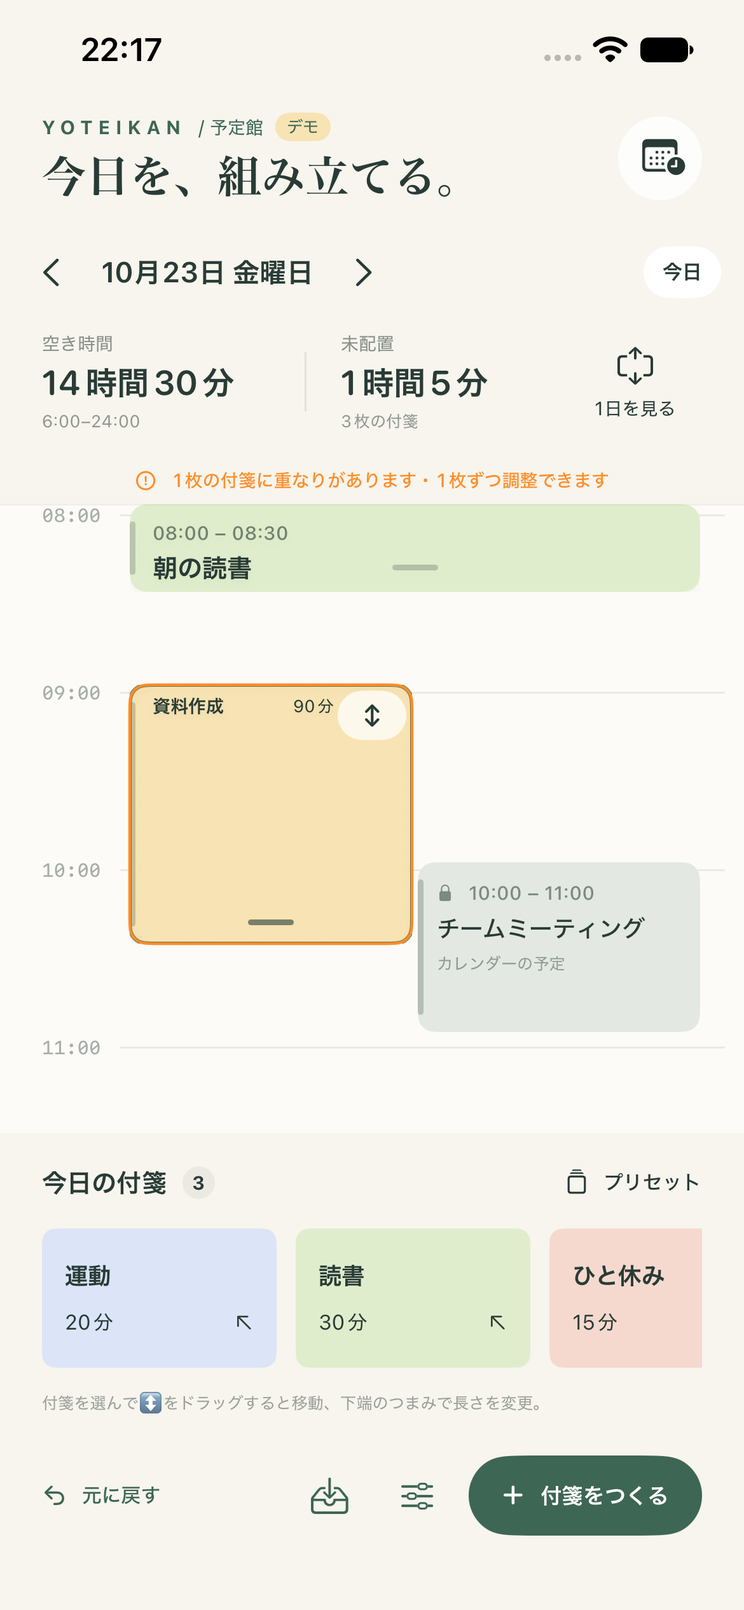
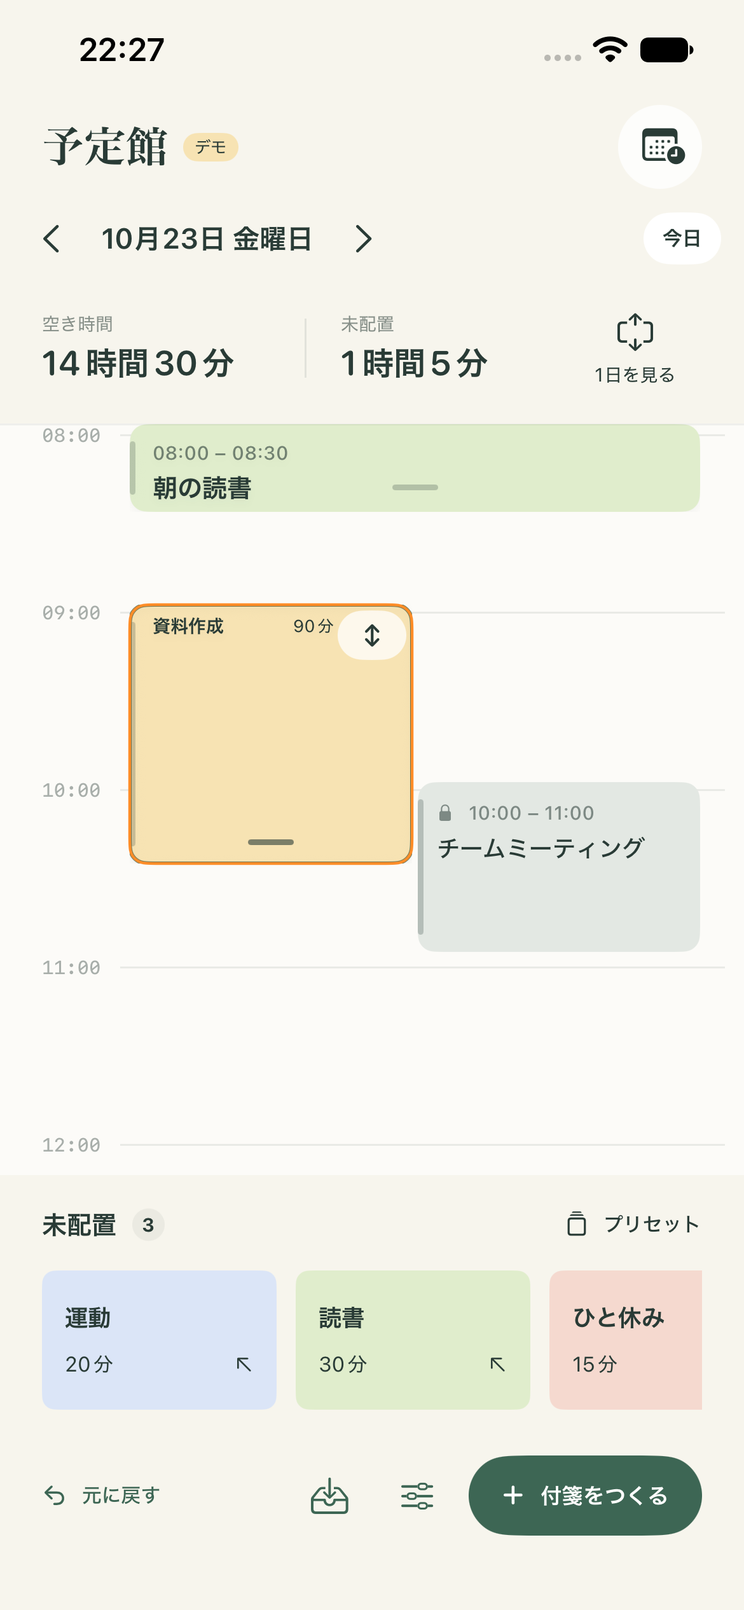
Simplify planner UI and remove redundant explanations (#2)

diff --git a/ios/Yoteikan/PlannerView.swift b/ios/Yoteikan/PlannerView.swift
@@ -16,7 +16,6 @@ struct PlannerView: View {
     @State private var shift: CGFloat = 0
     @State private var stretching: UUID?
     @State private var stretch: CGFloat = 0
-    @State private var toast: String?
     @State private var viewportHeight: CGFloat = 350
     @State private var touchStart = CGPoint.zero
     @State private var touchTask: UUID?
@@ -35,7 +34,6 @@ struct PlannerView: View {
     private var slots: [String: TimelineSlot] {
         PlannerMath.layout(placed.map { TimelineItem(id: $0.id.uuidString, start: $0.start!, end: $0.start! + $0.minutes) } + fixed.filter { !$0.allDay }.map { TimelineItem(id: "fixed-" + $0.id, start: $0.start, end: $0.end) })
     }
-    private var overlapCount: Int { placed.filter { conflicts($0) }.count }
     var body: some View {
         VStack(spacing: 0) {
             header
@@ -43,11 +41,8 @@ struct PlannerView: View {
             stats
             if !calendar.connected && !plans.demo {
                 Button { showCalendar = true } label: {
-                    HStack(spacing: 8) { Image(systemName: "calendar.badge.plus"); Text("カレンダーをつないで、空き時間を見つける").font(.system(size: 11, weight: .medium)); Spacer(); Image(systemName: "chevron.right") }.padding(.horizontal, 20).padding(.vertical, 10).foregroundStyle(accent)
+                    HStack(spacing: 8) { Image(systemName: "calendar.badge.plus"); Text("カレンダーを接続").font(.system(size: 12, weight: .medium)); Spacer(); Image(systemName: "chevron.right") }.padding(.horizontal, 20).padding(.vertical, 10).foregroundStyle(accent)
                 }.accessibilityIdentifier("calendarConnectBanner")
-            }
-            if overlapCount > 0 {
-                Label("\(overlapCount)枚の付箋に重なりがあります・1枚ずつ調整できます", systemImage: "exclamationmark.circle").font(.system(size: 10, weight: .medium)).foregroundStyle(.orange).padding(.vertical, 6).accessibilityIdentifier("overlapWarning")
             }
             if !fixed.filter(\.allDay).isEmpty {
                 ScrollView(.horizontal, showsIndicators: false) { HStack { ForEach(fixed.filter(\.allDay)) { event in Label(event.title, systemImage: "sun.max").font(.caption2).padding(7).background(.white.opacity(0.6), in: Capsule()) } }.padding(.horizontal, 20) }
@@ -57,9 +52,6 @@ struct PlannerView: View {
         }
         .background(paper).foregroundStyle(ink)
         .safeAreaInset(edge: .bottom, spacing: 0) { bottomBar }
-        .overlay(alignment: .bottom) {
-            if let toast { Text(toast).font(.caption).padding(12).background(ink, in: Capsule()).foregroundStyle(.white).padding(.bottom, 180).allowsHitTesting(false) }
-        }
         .sheet(isPresented: $showPresets) { PresetsView() }
         .sheet(isPresented: $showCalendar) { CalendarSettingsView() }
         .sheet(isPresented: $showNew) { StickyEditor(task: Sticky(title: "", minutes: 30, day: dayKey(plans.date)), isNew: true) }
@@ -68,14 +60,18 @@ struct PlannerView: View {
         .onChange(of: phase) { _, value in if value == .active { calendar.refresh(date: plans.date) } }
     }
     private var header: some View {
-        HStack(alignment: .center) {
-            VStack(alignment: .leading, spacing: 5) {
-                HStack(spacing: 6) { Text("YOTEIKAN").tracking(2.8).font(.system(size: 10, weight: .bold)); Text("/ 予定館").font(.system(size: 10)); if plans.demo { Text("デモ").font(.system(size: 9)).padding(.horizontal, 6).padding(.vertical, 2).background(tones[1], in: Capsule()) } }.foregroundStyle(accent)
-                Text("今日を、組み立てる。").font(.system(size: 23, weight: .semibold, design: .serif))
+        HStack {
+            Text("予定館").font(.system(size: 22, weight: .semibold, design: .serif))
+            if plans.demo {
+                Text("デモ").font(.system(size: 9)).padding(.horizontal, 6).padding(.vertical, 2)
+                    .background(tones[1], in: Capsule())
             }
             Spacer()
-            Button { showCalendar = true } label: { Image(systemName: "calendar.badge.clock").font(.system(size: 19)).frame(width: 44, height: 44).background(.white.opacity(0.8), in: Circle()) }.accessibilityLabel("カレンダー設定").accessibilityIdentifier("calendarSettings")
-        }.padding(.horizontal, 22).padding(.top, 12).padding(.bottom, 18)
+            Button { showCalendar = true } label: {
+                Image(systemName: "calendar.badge.clock").font(.system(size: 19))
+                    .frame(width: 44, height: 44).background(.white.opacity(0.8), in: Circle())
+            }.accessibilityLabel("カレンダー設定").accessibilityIdentifier("calendarSettings")
+        }.padding(.horizontal, 22).padding(.top, 8).padding(.bottom, 8)
     }
     private var dateBar: some View {
         HStack(spacing: 9) {
@@ -88,15 +84,15 @@ struct PlannerView: View {
     }
     private var stats: some View {
         HStack(spacing: 0) {
-            stat("空き時間", durationText(1080 - occupied), "6:00–24:00")
+            stat("空き時間", durationText(1080 - occupied))
             Rectangle().fill(ink.opacity(0.10)).frame(width: 1, height: 31)
-            stat("未配置", durationText(inbox.reduce(0) { $0 + $1.minutes }), "\(inbox.count)枚の付箋")
+            stat("未配置", durationText(inbox.reduce(0) { $0 + $1.minutes }))
             Spacer(minLength: 0)
             Button { overview.toggle() } label: { VStack(spacing: 5) { Image(systemName: overview ? "plus.magnifyingglass" : "rectangle.expand.vertical").font(.system(size: 17)); Text(overview ? "拡大する" : "1日を見る").font(.system(size: 10)) }.frame(width: 70, height: 55) }.accessibilityIdentifier("zoomToggle")
         }.padding(.horizontal, 22).padding(.vertical, 12)
     }
-    private func stat(_ title: String, _ value: String, _ caption: String) -> some View {
-        VStack(alignment: .leading, spacing: 4) { Text(title).font(.system(size: 10)).foregroundStyle(ink.opacity(0.55)); Text(value).font(.system(size: 18, weight: .semibold, design: .rounded)); Text(caption).font(.system(size: 9)).foregroundStyle(ink.opacity(0.5)) }.frame(maxWidth: .infinity, alignment: .leading).padding(.leading, title == "未配置" ? 18 : 0)
+    private func stat(_ title: String, _ value: String) -> some View {
+        VStack(alignment: .leading, spacing: 4) { Text(title).font(.system(size: 10)).foregroundStyle(ink.opacity(0.55)); Text(value).font(.system(size: 18, weight: .semibold, design: .rounded)) }.frame(maxWidth: .infinity, alignment: .leading).padding(.leading, title == "未配置" ? 18 : 0)
     }
     private var timeline: some View {
         ScrollViewReader { reader in
@@ -145,6 +141,7 @@ struct PlannerView: View {
                                 .accessibilityElement(children: .contain)
                                 .accessibilityIdentifier("task-\(task.title)")
                                 .accessibilityValue("\(clockText(task.start!))|\(task.minutes)")
+                                .accessibilityHint(collision ? "ほかの予定と重なっています" : "")
                         }
                     }
                     .frame(maxWidth: .infinity, maxHeight: .infinity, alignment: .topLeading)
@@ -168,7 +165,7 @@ struct PlannerView: View {
         VStack(alignment: .leading, spacing: overview ? 0 : 5) {
             if overview { Text(event.title).font(.system(size: 7, weight: .medium)).lineLimit(1) }
             else { HStack { Image(systemName: "lock.fill").font(.system(size: 9)); Text("\(clockText(event.start)) – \(clockText(event.end))").font(.system(size: 10, weight: .medium)); Spacer(minLength: 0) }.foregroundStyle(ink.opacity(0.55))
-            if !overview { Text(event.title).font(.system(size: 13, weight: .medium)).lineLimit(2); Text("カレンダーの予定").font(.system(size: 9)).foregroundStyle(ink.opacity(0.45)) }
+            if !overview { Text(event.title).font(.system(size: 13, weight: .medium)).lineLimit(2) }
             Spacer(minLength: 0)
             }
         }.padding(overview ? 2 : 10).frame(maxWidth: .infinity, maxHeight: .infinity, alignment: .topLeading).background(Color(red: 0.89, green: 0.91, blue: 0.89), in: RoundedRectangle(cornerRadius: 9)).overlay(alignment: .leading) { RoundedRectangle(cornerRadius: 2).fill(ink.opacity(0.25)).frame(width: 3).padding(.vertical, 9) }.clipped().accessibilityElement(children: .ignore).accessibilityLabel("\(event.title)、\(clockText(event.start))から\(clockText(event.end))、カレンダーの固定予定").accessibilityIdentifier("fixed-\(event.title)")
@@ -182,7 +179,6 @@ struct PlannerView: View {
             } else {
             if !compact { Text("\(clockText(start)) – \(clockText(start + duration))").font(.system(size: 10, weight: .medium)).foregroundStyle(ink.opacity(0.6)) }
             HStack(spacing: 4) { Text(task.title).font(.system(size: compact ? 10 : 14, weight: .semibold)).lineLimit(1); Spacer(minLength: 0); if compact { Text("\(duration)分").font(.system(size: 9)) } }.padding(.trailing, selected == task.id ? 29 : 0)
-            if !compact && duration >= 40 { Text(durationText(duration)).font(.system(size: 10)).foregroundStyle(ink.opacity(0.6)) }
             Spacer(minLength: 0)
             }
         }.padding(.horizontal, overview ? 3 : 12).padding(.top, overview ? 1 : (compact ? 5 : 9)).frame(maxWidth: .infinity, maxHeight: .infinity, alignment: .topLeading)
@@ -253,9 +249,12 @@ struct PlannerView: View {
     }
     private var inboxView: some View {
         VStack(alignment: .leading, spacing: 11) {
-            HStack { Text("今日の付箋").font(.system(size: 14, weight: .semibold)); Text("\(inbox.count)").font(.system(size: 10, weight: .bold)).padding(5).background(ink.opacity(0.06), in: Circle()); Spacer(); Button { showPresets = true } label: { Label("プリセット", systemImage: "square.stack").font(.system(size: 11, weight: .medium)) }.accessibilityIdentifier("presetsButton") }
+            HStack { Text("未配置").font(.system(size: 14, weight: .semibold)); Text("\(inbox.count)").font(.system(size: 10, weight: .bold)).padding(5).background(ink.opacity(0.06), in: Circle()); Spacer(); Button { showPresets = true } label: { Label("プリセット", systemImage: "square.stack").font(.system(size: 11, weight: .medium)) }.accessibilityIdentifier("presetsButton") }
             if inbox.isEmpty {
-                HStack { Image(systemName: "square.and.pencil"); Text("付箋を追加して、今日を組み立てましょう").font(.system(size: 11)); Spacer() }.foregroundStyle(ink.opacity(0.4)).frame(height: 64)
+                RoundedRectangle(cornerRadius: 8)
+                    .strokeBorder(ink.opacity(0.12), style: StrokeStyle(lineWidth: 1, dash: [4, 4]))
+                    .frame(height: 64)
+                    .accessibilityLabel("未配置の付箋はありません")
             } else {
                 ScrollView(.horizontal, showsIndicators: false) {
                     HStack(spacing: 10) {
@@ -268,7 +267,6 @@ struct PlannerView: View {
                     }.padding(.vertical, 2)
                 }
             }
-            Text("付箋を選んで↕をドラッグすると移動、下端のつまみで長さを変更。").font(.system(size: 9)).foregroundStyle(ink.opacity(0.45))
         }.padding(.horizontal, 22).padding(.top, 15).padding(.bottom, 13)
             .background(returningToInbox ? tones[0] : paper)
             .background { GeometryReader { proxy in Color.clear.onAppear { inboxFrame = proxy.frame(in: .global) }.onChange(of: proxy.frame(in: .global)) { _, frame in inboxFrame = frame } } }

diff --git a/ios/Yoteikan/Editors.swift b/ios/Yoteikan/Editors.swift
@@ -19,10 +19,10 @@ struct StickyEditor: View {
                 }
                 Section("色") { HStack(spacing: 22) { ForEach(0..<tones.count, id: \.self) { i in Button { task.tone = i } label: { Circle().fill(tones[i]).frame(width: 38, height: 38).overlay { if task.tone == i { Image(systemName: "checkmark").foregroundStyle(ink) } } }.buttonStyle(.plain).accessibilityLabel("色\(i + 1)") } } }
                 Section {
-                    Toggle("時間を指定して配置", isOn: $placed).accessibilityIdentifier("placeToggle")
+                    Toggle("開始時刻を指定", isOn: $placed).accessibilityIdentifier("placeToggle")
                     if placed { DatePicker("開始", selection: $startTime, displayedComponents: .hourAndMinute).environment(\.locale, Locale(identifier: "ja_JP")) }
-                } footer: { Text("未配置の付箋は、あとから時間割へドラッグできます。配置できる時間は6:00〜24:00です。") }
-                Section("メモ") { TextField("メモを追加（任意）", text: $task.memo, axis: .vertical).lineLimit(3...5).accessibilityIdentifier("stickyMemo") }
+                } footer: { Text("6:00〜24:00") }
+                Section("メモ") { TextField("任意", text: $task.memo, axis: .vertical).lineLimit(3...5).accessibilityIdentifier("stickyMemo") }
                 if isNew { Section { Toggle("プリセットにも保存", isOn: $saveAsPreset) } }
                 if !isNew {
                     Section {
@@ -63,22 +63,20 @@ struct PresetsView: View {
     @Environment(\.dismiss) private var dismiss
     @State private var creating = false
     @State private var editing: Preset?
-    @State private var added = 0
+    @State private var added: [UUID: Int] = [:]
     var body: some View {
         NavigationStack {
             List {
-                Section { Text("今日やりたいことを選びましょう。\nタップすると、今日の未配置エリアに1枚追加します。").font(.system(size: 13)).foregroundStyle(.secondary).listRowBackground(Color.clear) }
                 Section {
                     ForEach(plans.plan.presets) { preset in
                         HStack(spacing: 12) {
                             RoundedRectangle(cornerRadius: 4).fill(tones[preset.tone % tones.count]).frame(width: 7, height: 42)
-                            Button { plans.add(preset); added += 1 } label: { HStack { VStack(alignment: .leading, spacing: 5) { Text(preset.title).font(.system(size: 16, weight: .medium)).foregroundStyle(ink); Text(durationText(preset.minutes)).font(.caption).foregroundStyle(.secondary) }; Spacer(); Image(systemName: "plus.circle.fill").font(.title3).foregroundStyle(accent) }.contentShape(Rectangle()) }.buttonStyle(.plain).accessibilityIdentifier("preset-\(preset.title)")
+                            Button { plans.add(preset); added[preset.id, default: 0] += 1 } label: { HStack { VStack(alignment: .leading, spacing: 5) { Text(preset.title).font(.system(size: 16, weight: .medium)).foregroundStyle(ink); Text(durationText(preset.minutes)).font(.caption).foregroundStyle(.secondary) }; Spacer(); if let count = added[preset.id] { Text("\(count)").font(.system(size: 12, weight: .semibold, design: .rounded)).foregroundStyle(accent).accessibilityHidden(true) }; Image(systemName: "plus.circle.fill").font(.title3).foregroundStyle(accent) }.contentShape(Rectangle()) }.buttonStyle(.plain).accessibilityIdentifier("preset-\(preset.title)").accessibilityValue(added[preset.id].map { "\($0)枚追加済み" } ?? "")
                             Button { editing = preset } label: { Image(systemName: "ellipsis").frame(width: 34, height: 44).foregroundStyle(.secondary) }.buttonStyle(.plain).accessibilityLabel("\(preset.title)のプリセットを編集")
                         }.listRowBackground(Color.white)
                     }.onDelete { index in plans.change { $0.presets.remove(atOffsets: index) } }
                 }
                 Section { Button { creating = true } label: { Label("プリセットをつくる", systemImage: "plus") }.accessibilityIdentifier("newPreset") }
-                if added > 0 { Section { Label("今日の付箋に\(added)枚追加しました", systemImage: "checkmark.circle.fill").foregroundStyle(accent).font(.subheadline).accessibilityIdentifier("presetAdded") }.listRowBackground(Color.clear) }
             }.scrollContentBackground(.hidden).background(paper)
                 .navigationTitle("プリセット").navigationBarTitleDisplayMode(.inline)
                 .toolbar { ToolbarItem(placement: .confirmationAction) { Button("完了") { dismiss() }.accessibilityIdentifier("closePresets") } }
@@ -98,7 +96,7 @@ struct PresetEditor: View {
                 Section("名前") { TextField("例：読書", text: $preset.title).accessibilityIdentifier("presetTitle") }
                 Section("所要時間") { Stepper("\(preset.minutes)分", value: $preset.minutes, in: 5...720, step: 5) }
                 Section("色") { HStack(spacing: 22) { ForEach(0..<tones.count, id: \.self) { i in Button { preset.tone = i } label: { Circle().fill(tones[i]).frame(width: 36, height: 36).overlay { if i == preset.tone { Image(systemName: "checkmark").foregroundStyle(ink) } } }.buttonStyle(.plain) } } }
-                Section("メモ") { TextField("メモ（任意）", text: $preset.memo, axis: .vertical) }
+                Section("メモ") { TextField("任意", text: $preset.memo, axis: .vertical) }
                 if !isNew { Section { Button("プリセットを削除", role: .destructive) { plans.change { $0.presets.removeAll { $0.id == preset.id } }; dismiss() } } }
             }.scrollContentBackground(.hidden).background(paper).navigationTitle(isNew ? "プリセットをつくる" : "プリセットを編集").navigationBarTitleDisplayMode(.inline)
                 .toolbar {
@@ -115,19 +113,15 @@ struct CalendarSettingsView: View {
     var body: some View {
         NavigationStack {
             List {
-                Section {
-                    VStack(alignment: .leading, spacing: 12) { Image(systemName: "calendar.badge.clock").font(.system(size: 32)).foregroundStyle(accent); Text("いつもの予定を、計画の土台に。").font(.headline); Text("iPhoneのカレンダーから予定を読み込み、固定枠として表示します。予定館からカレンダーの予定を変更することはありません。").font(.system(size: 13)).foregroundStyle(.secondary) }.padding(.vertical, 12)
-                }.listRowBackground(Color.clear)
                 if calendar.connected {
-                    Section("表示するカレンダー") {
-                        if calendar.calendars.isEmpty { Text("カレンダーがありません。iPhoneのカレンダーアプリで追加してください。").font(.subheadline) }
+                    Section {
+                        if calendar.calendars.isEmpty { Text("カレンダーがありません").font(.subheadline) }
                         ForEach(calendar.calendars, id: \.calendarIdentifier) { item in
                             Toggle(isOn: Binding(get: { calendar.enabled.contains(item.calendarIdentifier) }, set: { _ in calendar.toggle(item) })) { HStack { Circle().fill(Color(cgColor: item.cgColor)).frame(width: 10, height: 10); Text(item.title) } }.accessibilityIdentifier("calendar-\(item.title)")
                         }
-                    }
-                    Section { Label("接続済み・読み込み専用", systemImage: "checkmark.shield").foregroundStyle(accent).accessibilityIdentifier("calendarConnected") } footer: { Text("終日の予定は時間割の上部に表示します。会議が変更されても付箋は自動で動きません。") }
+                    } header: { Text("表示するカレンダー") } footer: { Text("読み込み専用") }
                 } else {
-                    Section { Button("カレンダーへのアクセスを許可") { Task { await calendar.connect() } }.accessibilityIdentifier("requestCalendar") } footer: { Text("iOSの確認画面では、予定を読み込むために「フルアクセス」が必要です。予定館は予定の追加・変更・削除を行いません。") }
+                    Section { Button("カレンダーに接続") { Task { await calendar.connect() } }.accessibilityIdentifier("requestCalendar") } footer: { Text("読み込み専用です。iOSの許可画面ではフルアクセスが必要です。") }
                     Section { Button("iPhoneの設定を開く") { if let url = URL(string: UIApplication.openSettingsURLString) { UIApplication.shared.open(url) } } }
                 }
                 if let message = calendar.message { Section { Text(message).font(.subheadline).foregroundStyle(.orange) } }

diff --git a/ios/YoteikanUITests/YoteikanUITests.swift b/ios/YoteikanUITests/YoteikanUITests.swift
@@ -9,7 +9,7 @@ final class YoteikanUITests: XCTestCase {
         launch(); shot("01-day-planner")
         app.buttons["presetsButton"].tap()
         XCTAssertTrue(app.buttons["preset-読書"].waitForExistence(timeout: 3)); app.buttons["preset-読書"].tap()
-        XCTAssertTrue(app.staticTexts["presetAdded"].exists); shot("02-presets")
+        XCTAssertEqual(app.buttons["preset-読書"].value as? String, "1枚追加済み"); shot("02-presets")
         app.buttons["closePresets"].tap()
         XCTAssertEqual(app.otherElements.matching(identifier: "inbox-読書").count, 2)
     }
@@ -32,7 +32,6 @@ final class YoteikanUITests: XCTestCase {
         XCTAssertTrue(task.waitForExistence(timeout: 3))
         let from = task.coordinate(withNormalizedOffset: CGVector(dx: 0.45, dy: 0.30))
         from.press(forDuration: 0.5, thenDragTo: from.withOffset(CGVector(dx: 0, dy: 46.5)))
-        XCTAssertTrue(app.staticTexts["overlapWarning"].waitForExistence(timeout: 3))
         XCTAssertEqual(task.value as? String, "09:30|60")
         XCTAssertEqual(app.otherElements["task-朝の読書"].value as? String, "08:00|30")
         shot("04-overlap-after-drag")
@@ -41,7 +40,6 @@ final class YoteikanUITests: XCTestCase {
         XCTAssertTrue(handle.exists)
         let point = handle.coordinate(withNormalizedOffset: CGVector(dx: 0.5, dy: 0.5))
         point.press(forDuration: 0.15, thenDragTo: point.withOffset(CGVector(dx: 0, dy: 46.5)))
-        XCTAssertTrue(app.staticTexts["overlapWarning"].waitForExistence(timeout: 3))
         XCTAssertEqual(task.value as? String, "09:00|90")
         shot("05-resize-overlap")
         app.buttons["unplaceButton"].tap()
@@ -73,7 +71,7 @@ final class YoteikanUITests: XCTestCase {
             let allow = springboard.buttons.matching(NSPredicate(format: "label CONTAINS[c] 'Full Access' OR label CONTAINS 'フルアクセス' OR label == 'Allow'")).firstMatch
             if allow.waitForExistence(timeout: 5) { allow.tap() }
         }
-        XCTAssertTrue(app.staticTexts["calendarConnected"].waitForExistence(timeout: 8))
+        XCTAssertTrue(app.switches["calendar-予定館・動作確認用"].firstMatch.waitForExistence(timeout: 8))
         shot("07-calendar-settings")
         app.buttons["closeCalendar"].tap()
         XCTAssertTrue(app.descendants(matching: .any).matching(identifier: "fixed-チームミーティング").firstMatch.waitForExistence(timeout: 5))

diff --git a/docs/verification.md b/docs/verification.md
@@ -2,7 +2,21 @@
 
 2026年10月23日。iPhone 17eシミュレーター / iOS 27.0で確認しました。
 
-初期版をSwiftUIで実装し、Issue #1の改善後、ユニットテスト6件・UI操作テスト9件の計15件がすべて成功しました。スクリーンショット抽出・一覧作成ツールはGoで実装しています。Pythonへの依存はありません。
+初期版をSwiftUIで実装し、Issue #2の改善後、ユニットテスト6件・UI操作テスト9件の計15件がすべて成功しました。スクリーンショット抽出・一覧作成ツールはGoで実装しています。Pythonへの依存はありません。
+
+## Issue #2：説明文と補足ラベルの整理
+
+[Issue #2](https://github.com/sfujibijutsukan/yoteikan/issues/2)は、Issue #1の操作改善を引き継いだ fix/issue-2-simplify-interface ブランチで対応しました。
+
+- 主画面のコピー文、英語名の重複表示、操作説明フッター、集計欄の補足を整理。
+- 固定予定の「カレンダーの予定」、開始・終了時刻から分かる所要時間の重複表示を削除。
+- 重なりは枠線と並列表示で示し、常設の説明バナーを削除。読み上げ用のヒントは保持。
+- 未配置エリアを見出し・枚数・枠で示し、空のときもドラッグで戻せる領域を維持。
+- プリセットの操作説明・追加完了の文章を削除し、追加枚数を行内に表示。
+- カレンダー設定を選択肢中心に整理。読み込み専用・権限・エラーの情報は残す。
+- フォームの項目名と必要な時間の範囲を残し、重複する説明だけを短縮。
+
+全15件のテストで、移動・伸縮・Undo・保存・プリセット追加・カレンダー選択を再確認。主画面、編集、プリセット、カレンダー設定のスクリーンショットを目視確認しました。
 
 ## Issue #1：配置後の開始時刻変更
 
@@ -22,7 +36,7 @@
 | 未配置から時間割へドラッグして配置 | 成功 |
 | 9:00の付箋を9:30へ移動 | 成功。ほかの付箋は移動しない |
 | 60分の付箋を下端のドラッグで90分へ延長 | 成功。カレンダーの固定予定はそのまま |
-| 予定との重なり | 許可し、色付きの枠線とメッセージを表示 |
+| 予定との重なり | 許可し、枠線と並列表示で示す |
 | 複数・連鎖する重なりの表示 | 独立した列を割り当てる処理を確認 |
 | 下部へドラッグして未配置へ戻す | 成功。所要時間を保持 |
 | ボタンから未配置へ戻す、元に戻す | 成功 |
@@ -51,7 +65,7 @@
 
 ## 検証結果の記録
 
-- [テスト結果の抜粋](test-results.txt)：ユニットテスト6件・UI操作テスト9件の計15件が成功。最新の結果は artifacts/Issue1Validation.xcresult と artifacts/issue-1-validation.log に保存。
+- [テスト結果の抜粋](test-results.txt)：ユニットテスト6件・UI操作テスト9件の計15件が成功。最新の結果は artifacts/Issue2Verified.xcresult と artifacts/issue-2-verified.log に保存。
 - 元のログとXcode結果バンドルはローカルの artifacts/ に保存。生成物のためGit管理対象外。
 - [開発・検証手順](development.md)に、テスト実行とスクリーンショット生成の再現手順を記載。
 

diff --git a/docs/design.md b/docs/design.md
@@ -37,11 +37,23 @@
 
 計画範囲は6:00〜24:00、移動・伸縮は5分刻み。付箋の所要時間は5〜720分で、終了時刻は24:00を超えない。範囲外の操作は境界へ補正する。
 
-重なる予定は連続して重なり合うグループに分け、グループ内で列を割り当てる。付箋には枠線と重なり件数を表示する。空き時間の計算は、重複した時間を二重に差し引かない。
+重なる予定は連続して重なり合うグループに分け、グループ内で列を割り当てる。重なった付箋には枠線を付け、並列の配置で関係を示す。読み上げ用にも重なりのヒントを付ける。空き時間の計算は、重複した時間を二重に差し引かない。
 
 移動中は開始・終了時刻を表示する。右上の↕は移動用、下端のつまみは伸縮用として操作領域を分ける。配置した直後にも移動つまみを表示し、編集画面を開かずに時間を変更できる。
 
 「1日を見る」では全体の配置を確認し、「拡大する」で細かい操作へ戻る。移動つまみは拡大表示で使用する。
+
+## 表示の方針
+
+Issue #2では、常設の説明文よりも配置・色・アイコンで状態と操作を伝える構成に整理した。
+
+- ヘッダーはアプリ名・日付・カレンダー設定を中心にし、コピー文や英語名の重複表示は置かない。
+- 固定予定は落ち着いた色と鍵アイコンで区別し、「カレンダーの予定」という補足は繰り返さない。
+- 配置済みの付箋は開始・終了時刻と高さで時間を示し、所要時間を重ねて表示しない。未配置の付箋の所要時間は残す。
+- 未配置エリアは見出し・枚数・枠で示す。空のときもドラッグで戻せる場所を維持する。
+- プリセットは名前・所要時間・追加ボタンを同じ行に置き、追加した枚数も行内で返す。
+- カレンダー設定は選択肢を中心に表示する。読み込み専用と権限に関する情報、エラー、フォームの項目名は残す。
+- 操作方法の詳細はREADMEと開発文書にまとめ、画面内に常設の説明を並べない。
 
 ## データモデル
 

diff --git a/docs/development.md b/docs/development.md
@@ -35,7 +35,7 @@ xcrun simctl launch "$device_id" com.sota.yoteikan
 
 ## テスト
 
-ユニットテストは保存・Undo・日付ごとの分離・プリセットの独立性・境界・スナップ・重なりを確認する。UIテストは配置、移動、伸縮、未配置への戻し、再起動後の復元、プリセットの追加作成、カレンダー読み込みと選択を実際の操作で確認する。Issue #1の回帰テストでは、新規付箋をドラッグで配置した直後に、余白の長押しと右上の移動つまみの両方から開始時刻を変更する。移動後の所要時間保持、Undo、再起動後の保存も確認する。
+ユニットテストは保存・Undo・日付ごとの分離・プリセットの独立性・境界・スナップ・重なりを確認する。UIテストは配置、移動、伸縮、未配置への戻し、再起動後の復元、プリセットの追加作成、カレンダー読み込みと選択を実際の操作で確認する。Issue #1の回帰テストでは、新規付箋をドラッグで配置した直後に、余白の長押しと右上の移動つまみの両方から開始時刻を変更する。移動後の所要時間保持、Undo、再起動後の保存も確認する。Issue #2では同じ操作テストを使用し、プリセットは行内の追加枚数、カレンダーは実際の選択スイッチで状態を確認する。
 
 ```sh
 result_path="artifacts/Check-$(date +%Y%m%d-%H%M%S).xcresult"

diff --git a/README.md b/README.md
@@ -44,7 +44,7 @@ macOSと、iOS 17以降をビルドできるXcodeが必要です。
 | [開発・検証手順](docs/development.md) | 技術構成、ビルド・テスト、Goによるスクショ出力、テスト用の起動引数 |
 | [動作確認](docs/verification.md) | 確認した操作、検証環境、実機で未確認の項目 |
 | [スクリーンショット9枚](docs/screenshots/README.md) | 実際に操作して取得した画面 |
-| [テスト結果の抜粋](docs/test-results.txt) | Issue #1改善後の全15件成功の記録 |
+| [テスト結果の抜粋](docs/test-results.txt) | Issue #2改善後の全15件成功の記録 |
 
 ## 技術構成
 

diff --git a/docs/screenshots/README.md b/docs/screenshots/README.md
@@ -2,6 +2,8 @@
 
 iPhone 17eシミュレーター / iOS 27.0でXCTestを使って実際に操作し、2026年10月23日に撮影しました。デモ表記付きの画面はサンプル計画、カレンダー画面はEventKitに登録した検証用予定です。
 
+Issue #2で説明文と重複ラベルを整理した画面に更新しています。Issue #1の移動つまみも含みます。
+
 ## 1日の計画
 
 <img src="01-day-planner.png" width="300" alt="1日の計画">
